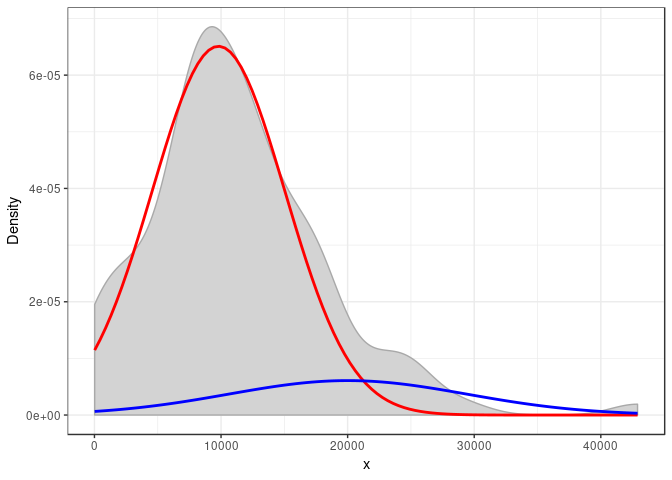
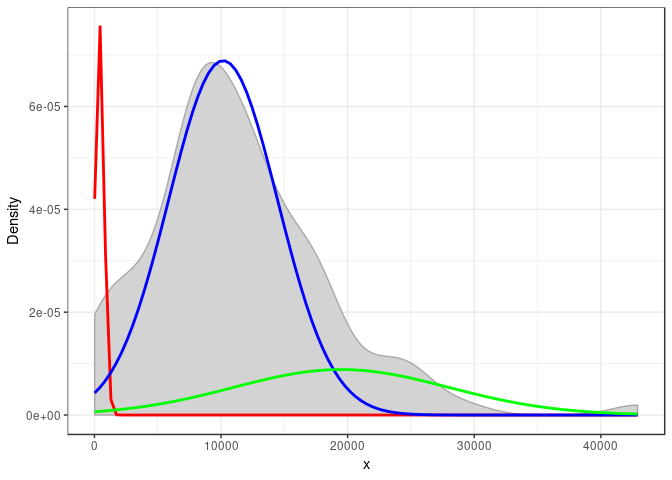
update readme with no cached chunks

diff --git a/README.md b/README.md
@@ -94,8 +94,9 @@ models.
 
 ### How can I determine the best number of components when fitting model?
 
-Package mixtools provides a method using hypothesis testing to select
-number of components. For example:
+Package mixtools provides a method using [hypothesis
+testing](https://www.stat.cmu.edu/~cshalizi/402/lectures/20-mixture-examples/lecture-20.pdf)
+to select number of components. For example:
 
 ``` r
 library(mixtools)
@@ -104,34 +105,34 @@ library(mixtools)
 library(plotGMM)
 data(cl.b1)
 a.boot <- boot.comp(y = cl.b1[5, ], max.comp = 10, B = 1000, mix.type = "normalmix", epsilon = 1e-3)
-#> number of iterations= 33 
-#> number of iterations= 33 
-#> number of iterations= 25 
 #> number of iterations= 49 
-#> number of iterations= 36 
-#> number of iterations= 24 
-#> number of iterations= 21 
-#> number of iterations= 29 
-#> number of iterations= 34 
-#> number of iterations= 52 
-#> number of iterations= 23 
-#> number of iterations= 44 
-#> number of iterations= 40 
-#> One of the variances is going to zero;  trying new starting values.
-#> number of iterations= 25 
+#> number of iterations= 170 
+#> number of iterations= 53 
+#> number of iterations= 16 
+#> number of iterations= 12 
+#> number of iterations= 58 
+#> number of iterations= 133 
+#> number of iterations= 58 
+#> number of iterations= 20 
+#> number of iterations= 129 
+#> number of iterations= 101 
+#> number of iterations= 18 
+#> number of iterations= 5 
+#> number of iterations= 14 
+#> number of iterations= 49 
 ...
+#> Decision: Select 3 Component(s)
+str(a.boot)
+#> List of 3
+#>  $ p.values   : num [1:3] 0.049 0.041 0.342
+#>  $ log.lik    :List of 3
+#>   ..$ : num [1:1000] 3.8 2.57 10.75 4.09 5.47 ...
+#>   ..$ : num [1:1000] 3.19 2.9 9.73 5.85 3.31 ...
+#>   ..$ : num [1:1000] 5.409 4.489 0.605 7.155 8.564 ...
+#>  $ obs.log.lik: num [1:3] 13.43 13.66 6.96
 ```
 
 <img src="man/figures/README-select_component_num-1.png" width="100%" />
-
-    #> Decision: Select 2 Component(s)
-    str(a.boot)
-    #> List of 3
-    #>  $ p.values   : num [1:2] 0.034 0.05
-    #>  $ log.lik    :List of 2
-    #>   ..$ : num [1:1000] 9.52 7.12 2.28 3.45 1.58 ...
-    #>   ..$ : num [1:1000] 1.81 1.96 2.91 8.4 4.38 ...
-    #>  $ obs.log.lik: num [1:2] 13.4 13.7
 
   - `cl.b1[5, ]` means the 5th row for `data.frame` `cl.b1`.
   - It seems in rare cases the meaning components(`max.comp`) will
@@ -145,6 +146,9 @@ hypothesis of a (k+1)-component fit to various mixture models. A p-value
 is calculated for each test and once the p-value is above a specified
 significance level, the testing terminates.
 
+> The vertical red lines mark the observed difference in
+> log-likelihoods.
+
 The value of `length(a.boot$obs.log.lik)` was chosen as optimized number
 of
 components.
@@ -154,20 +158,21 @@ components.
 ``` r
 # Should not in fast mode: the component densities should be allowed to have different mus and sigmas
 a.optim <- normalmixEM(cl.b1[5, ], k = length(a.boot$obs.log.lik))
-#> number of iterations= 114
+#> One of the variances is going to zero;  trying new starting values.
+#> number of iterations= 117
 str(a.optim)
 #> List of 9
 #>  $ x         : num [1:101] 24.5 472.4 11519.7 17056.2 8822 ...
-#>  $ lambda    : num [1:2] 0.856 0.144
-#>  $ mu        : num [1:2] 9800 20005
-#>  $ sigma     : num [1:2] 5248 9417
-#>  $ loglik    : num -1031
-#>  $ posterior : num [1:101, 1:2] 0.947 0.95 0.938 0.812 0.955 ...
+#>  $ lambda    : num [1:3] 0.0675 0.7436 0.1889
+#>  $ mu        : num [1:3] 403 10162 19489
+#>  $ sigma     : num [1:3] 354 4305 8516
+#>  $ loglik    : num -1024
+#>  $ posterior : num [1:101, 1:3] 8.96e-01 9.23e-01 4.24e-215 0.00 1.18e-123 ...
 #>   ..- attr(*, "dimnames")=List of 2
 #>   .. ..$ : NULL
-#>   .. ..$ : chr [1:2] "comp.1" "comp.2"
-#>  $ all.loglik: num [1:115] -1196 -1038 -1037 -1035 -1033 ...
-#>  $ restarts  : num 0
+#>   .. ..$ : chr [1:3] "comp.1" "comp.2" "comp.3"
+#>  $ all.loglik: num [1:118] -1063 -1033 -1031 -1031 -1030 ...
+#>  $ restarts  : num 1
 #>  $ ft        : chr "normalmixEM"
 #>  - attr(*, "class")= chr "mixEM"
 plot_GMM(a.optim, k = length(a.boot$obs.log.lik))
@@ -188,8 +193,8 @@ To rate a feature, we first rated each component in a model:
 
 ``` r
 apply(a.optim$posterior, 2, mean) > 0.9
-#> comp.1 comp.2 
-#>  FALSE  FALSE
+#> comp.1 comp.2 comp.3 
+#>  FALSE  FALSE  FALSE
 ```
 
   - The [overlapping coefficient
@@ -219,16 +224,22 @@ get_ovl_iterly <- function(x) {
 
 (ovls <- get_ovl_iterly(a.optim))
 #> [[1]]
-#> [1] 0.4540239
+#> [1] 0.02312081 0.01819388
 #> 
 #> [[2]]
-#> [1] 0.4540239
+#> [1] 0.02312081 0.42728836
+#> 
+#> [[3]]
+#> [1] 0.01819388 0.42728836
 
 lapply(ovls, function(x) all(x < 0.05))
 #> [[1]]
-#> [1] FALSE
+#> [1] TRUE
 #> 
 #> [[2]]
+#> [1] FALSE
+#> 
+#> [[3]]
 #> [1] FALSE
 ```
 
@@ -253,8 +264,8 @@ tmp.size <- table(apply(a.optim$posterior, 1, function(x) colnames(a.optim$poste
 # Must use <<- here: both <- and assign() do NOT work due to scope
 invisible(lapply(names(tmp.size), function(x) ab.size[[x]] <<- tmp.size[x]))
 ab.size
-#> comp.1 comp.2 
-#>     92      9
+#> comp.1 comp.2 comp.3 
+#>      8     83     10
 ```
 
 ## Questions
@@ -268,7 +279,7 @@ ab.size
 # We have lambda as relative percentage of each components
 # But I don't know if the difference
 a.optim$lambda
-#> [1] 0.8564079 0.1435921
+#> [1] 0.06746598 0.74362853 0.18890549
 ```
 
 2.  Which method should be used to (or be implemented as **alternative
